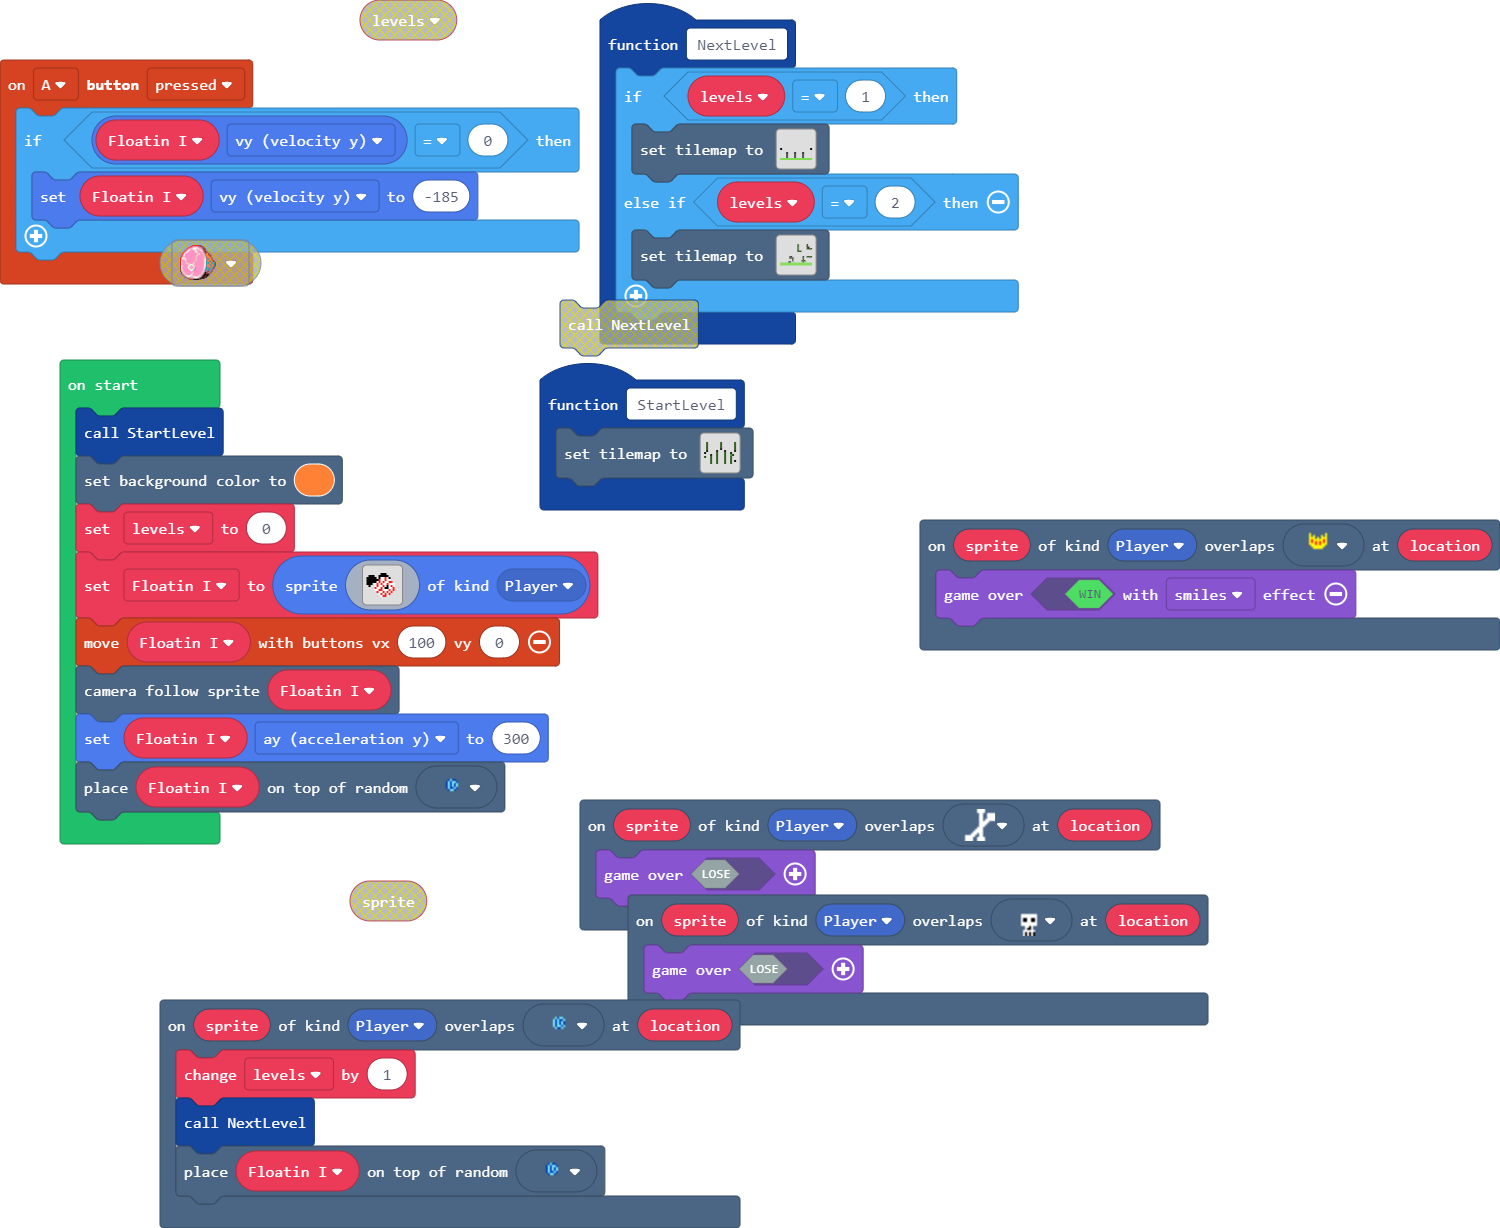
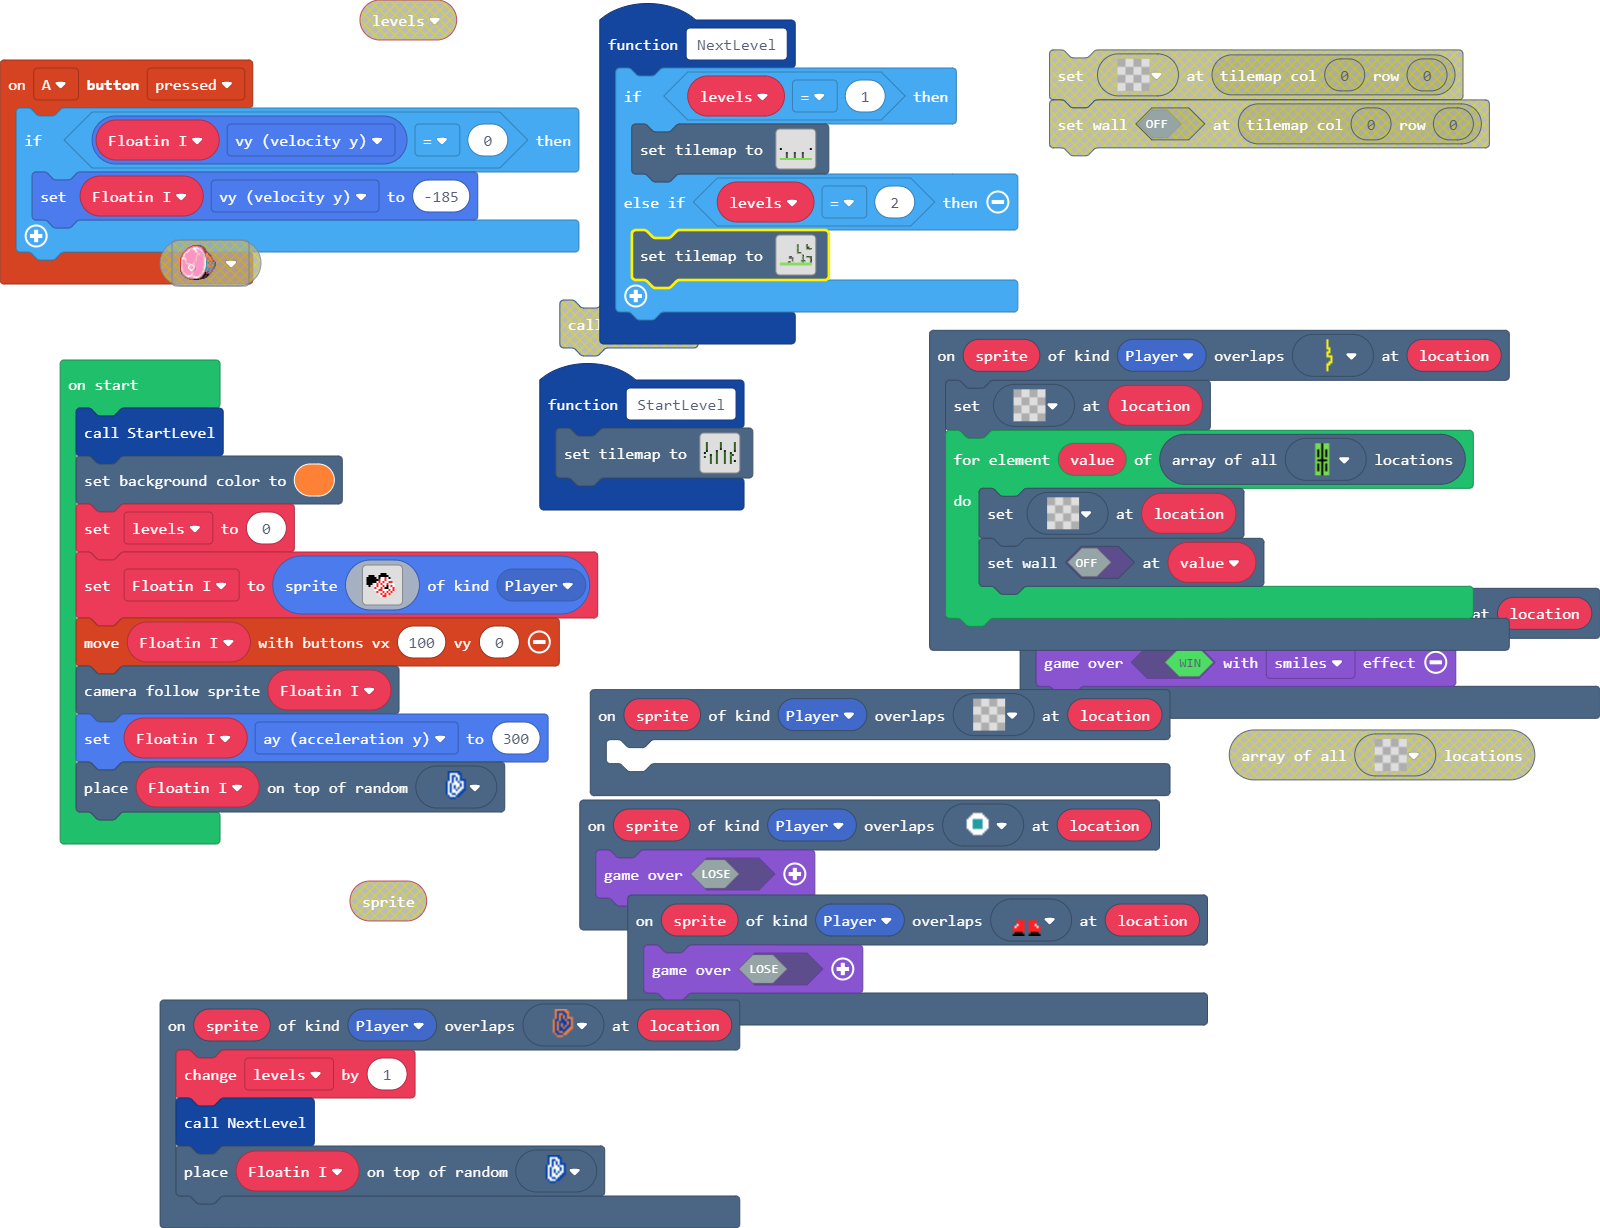
Update main.blocks, main.ts

diff --git a/main.ts b/main.ts
@@ -379,6 +379,25 @@ f f f f f f f f f f f f f f f f
 . . . . . 7 7 7 f 7 7 7 . . . . 
 . . . . . 7 7 7 f 7 7 7 . . . . 
 `
+    //% blockIdentity=images._tile
+    export const tile26 = img`
+. . . . . . . 5 . . . . . . . . 
+. . . . . . . 5 . . . . . . . . 
+. . . . . . . 5 . . . . . . . . 
+. . . . . . . 5 . . . . . . . . 
+. . . . . . . 5 5 . . . . . . . 
+. . . . . . . . 5 . . . . . . . 
+. . . . . . . 5 5 . . . . . . . 
+. . . . . . . 5 . . . . . . . . 
+. . . . . . . 5 5 5 . . . . . . 
+. . . . . . . . . 5 . . . . . . 
+. . . . . . . . . 5 . . . . . . 
+. . . . . . . . 5 5 . . . . . . 
+. . . . . . . 5 5 . . . . . . . 
+. . . . . . . 5 . . . . . . . . 
+. . . . . . . 5 . . . . . . . . 
+. . . . . . . 5 . . . . . . . . 
+`
 }
 function StartLevel () {
     tiles.setTilemap(tiles.createTilemap(
@@ -396,7 +415,7 @@ function StartLevel () {
 . . . 2 . . 2 . . . . . . 2 . . 
 2 2 2 2 2 2 2 2 2 2 2 2 2 2 2 2 
 `,
-            [myTiles.tile0,myTiles.tile1,myTiles.tile2,myTiles.tile4,myTiles.tile5,myTiles.tile6,myTiles.tile7,myTiles.tile8,myTiles.tile9,myTiles.tile10,myTiles.tile11,myTiles.tile12,myTiles.tile13,myTiles.tile14,myTiles.tile15,myTiles.tile16,myTiles.tile17,myTiles.tile23,myTiles.tile24,myTiles.tile25],
+            [myTiles.tile0,myTiles.tile1,myTiles.tile2,myTiles.tile4,myTiles.tile5,myTiles.tile6,myTiles.tile7,myTiles.tile8,myTiles.tile9,myTiles.tile10,myTiles.tile11,myTiles.tile12,myTiles.tile13,myTiles.tile14,myTiles.tile15,myTiles.tile16,myTiles.tile17,myTiles.tile23,myTiles.tile24,myTiles.tile25,myTiles.tile26],
             TileScale.Sixteen
         ))
 }
@@ -405,6 +424,16 @@ scene.onOverlapTile(SpriteKind.Player, myTiles.tile13, function (sprite, locatio
 })
 scene.onOverlapTile(SpriteKind.Player, myTiles.tile12, function (sprite, location) {
     game.over(false)
+})
+scene.onOverlapTile(SpriteKind.Player, myTiles.tile0, function (sprite, location) {
+	
+})
+scene.onOverlapTile(SpriteKind.Player, myTiles.tile26, function (sprite, location) {
+    tiles.setTileAt(location, myTiles.tile0)
+    for (let value of tiles.getTilesByType(myTiles.tile25)) {
+        tiles.setTileAt(location, myTiles.tile0)
+        tiles.setWallAt(value, false)
+    }
 })
 controller.A.onEvent(ControllerButtonEvent.Pressed, function () {
     if (Floatin_I.vy == 0) {
@@ -428,31 +457,31 @@ function NextLevel () {
 . . . . . . . . . . . . . . . . 
 2 2 2 2 2 2 2 2 2 2 2 2 2 2 2 2 
 `,
-            [myTiles.tile0,myTiles.tile1,myTiles.tile2,myTiles.tile4,myTiles.tile5,myTiles.tile6,myTiles.tile7,myTiles.tile8,myTiles.tile9,sprites.castle.tileGrass1,sprites.castle.saplingPine,myTiles.tile10,sprites.builtin.forestTiles0,myTiles.tile11,myTiles.tile12,myTiles.tile13,myTiles.tile14,myTiles.tile15,myTiles.tile16,myTiles.tile17,myTiles.tile23,myTiles.tile24,myTiles.tile25],
+            [myTiles.tile0,myTiles.tile1,myTiles.tile2,myTiles.tile4,myTiles.tile5,myTiles.tile6,myTiles.tile7,myTiles.tile8,myTiles.tile9,sprites.castle.tileGrass1,sprites.castle.saplingPine,myTiles.tile10,sprites.builtin.forestTiles0,myTiles.tile11,myTiles.tile12,myTiles.tile13,myTiles.tile14,myTiles.tile15,myTiles.tile16,myTiles.tile17,myTiles.tile23,myTiles.tile24,myTiles.tile25,myTiles.tile26],
             TileScale.Sixteen
         ))
     } else if (levels == 2) {
         tiles.setTilemap(tiles.createTilemap(
[2 lines of base64/hex data omitted]
             img`
+. . . . . . . . . . . . . 2 . . . . . . 2 . . . 
+. . . . . . . . . . . . . 2 . . . . . . 2 . . . 
+. . . . . . . . . . . . . 2 . . . . . . 2 . . . 
+. . . . . . . . . . . . . 2 . . . . . . 2 2 2 2 
+. . . . . . . . . . . . . 2 . . . . . . . . . . 
+. . . . . . . . . . . . . 2 . . . . . . . . . . 
+. . . . . . . . . . . . . 2 2 2 . . . . . . . . 
 . . . . . . . . . . . . . . . . . . . . . . . . 
 . . . . . . . . . . . . . . . . . . . . . . . . 
-. . . . . . . . . . . . . . . . . . . . . . . . 
-. . . . . . . . . . . . . . . . . . . . . . . . 
-. . . . . . . . . . . . . . . . . . . . . . . . 
-. . . . . . . . . . . . . . . . . . . . . . . . 
-. . . . . . . . . . . . . . . . . . . . . . . . 
-. . . . . . . . . . . . . . . . . . . . . . . . 
-. . . . . . . . . . . . . . . . . . . . . . . . 
-. . . . . . . . . . . . . . . . . . . . . . . . 
-. . . . . . . . . . . . . . . . . . . . . . . . 
-. . . . . . . . . . . . . . . . . . . . . . . . 
-. . . . . . . . . . . . . . . . . . . . . . . . 
-. . . . . . . . . . . . . . . . . . . . . . . . 
-. . . . . . . . . . . . . . . . . . . . . . . . 
-. . . . . . . . . . . . . . . . . . . . . . . . 
+. . . . . . . . . . . . . . . . . 2 . . 2 2 2 2 
+. . . . . . . . . . . . . . . . . 2 . . . . . . 
+. . . . . . . . . . . . . . . . . 2 . . . . . . 
+. . . . . . . . . . . . . . . . 2 2 2 . . . . . 
+. . . . . . . . . . . . . . . . . 2 . . . . . . 
+2 2 2 2 2 2 2 2 2 2 2 2 2 2 2 2 2 2 2 2 2 2 2 2 
+2 2 2 2 2 2 2 2 2 2 2 2 2 2 2 2 2 2 2 2 2 2 2 2 
 `,
-            [myTiles.tile0,myTiles.tile1,myTiles.tile2,myTiles.tile4,myTiles.tile5,myTiles.tile6,myTiles.tile7,myTiles.tile8,myTiles.tile9,myTiles.tile10,myTiles.tile11,myTiles.tile12,myTiles.tile13,sprites.castle.tileGrass1,myTiles.tile14,myTiles.tile15,myTiles.tile16,myTiles.tile17,myTiles.tile23,myTiles.tile24,myTiles.tile25],
+            [myTiles.tile0,myTiles.tile1,myTiles.tile2,myTiles.tile4,myTiles.tile5,myTiles.tile6,myTiles.tile7,myTiles.tile8,myTiles.tile9,myTiles.tile10,myTiles.tile11,myTiles.tile12,myTiles.tile13,sprites.castle.tileGrass1,myTiles.tile14,myTiles.tile15,myTiles.tile16,myTiles.tile17,myTiles.tile23,myTiles.tile24,myTiles.tile25,myTiles.tile26],
             TileScale.Sixteen
         ))
     }
